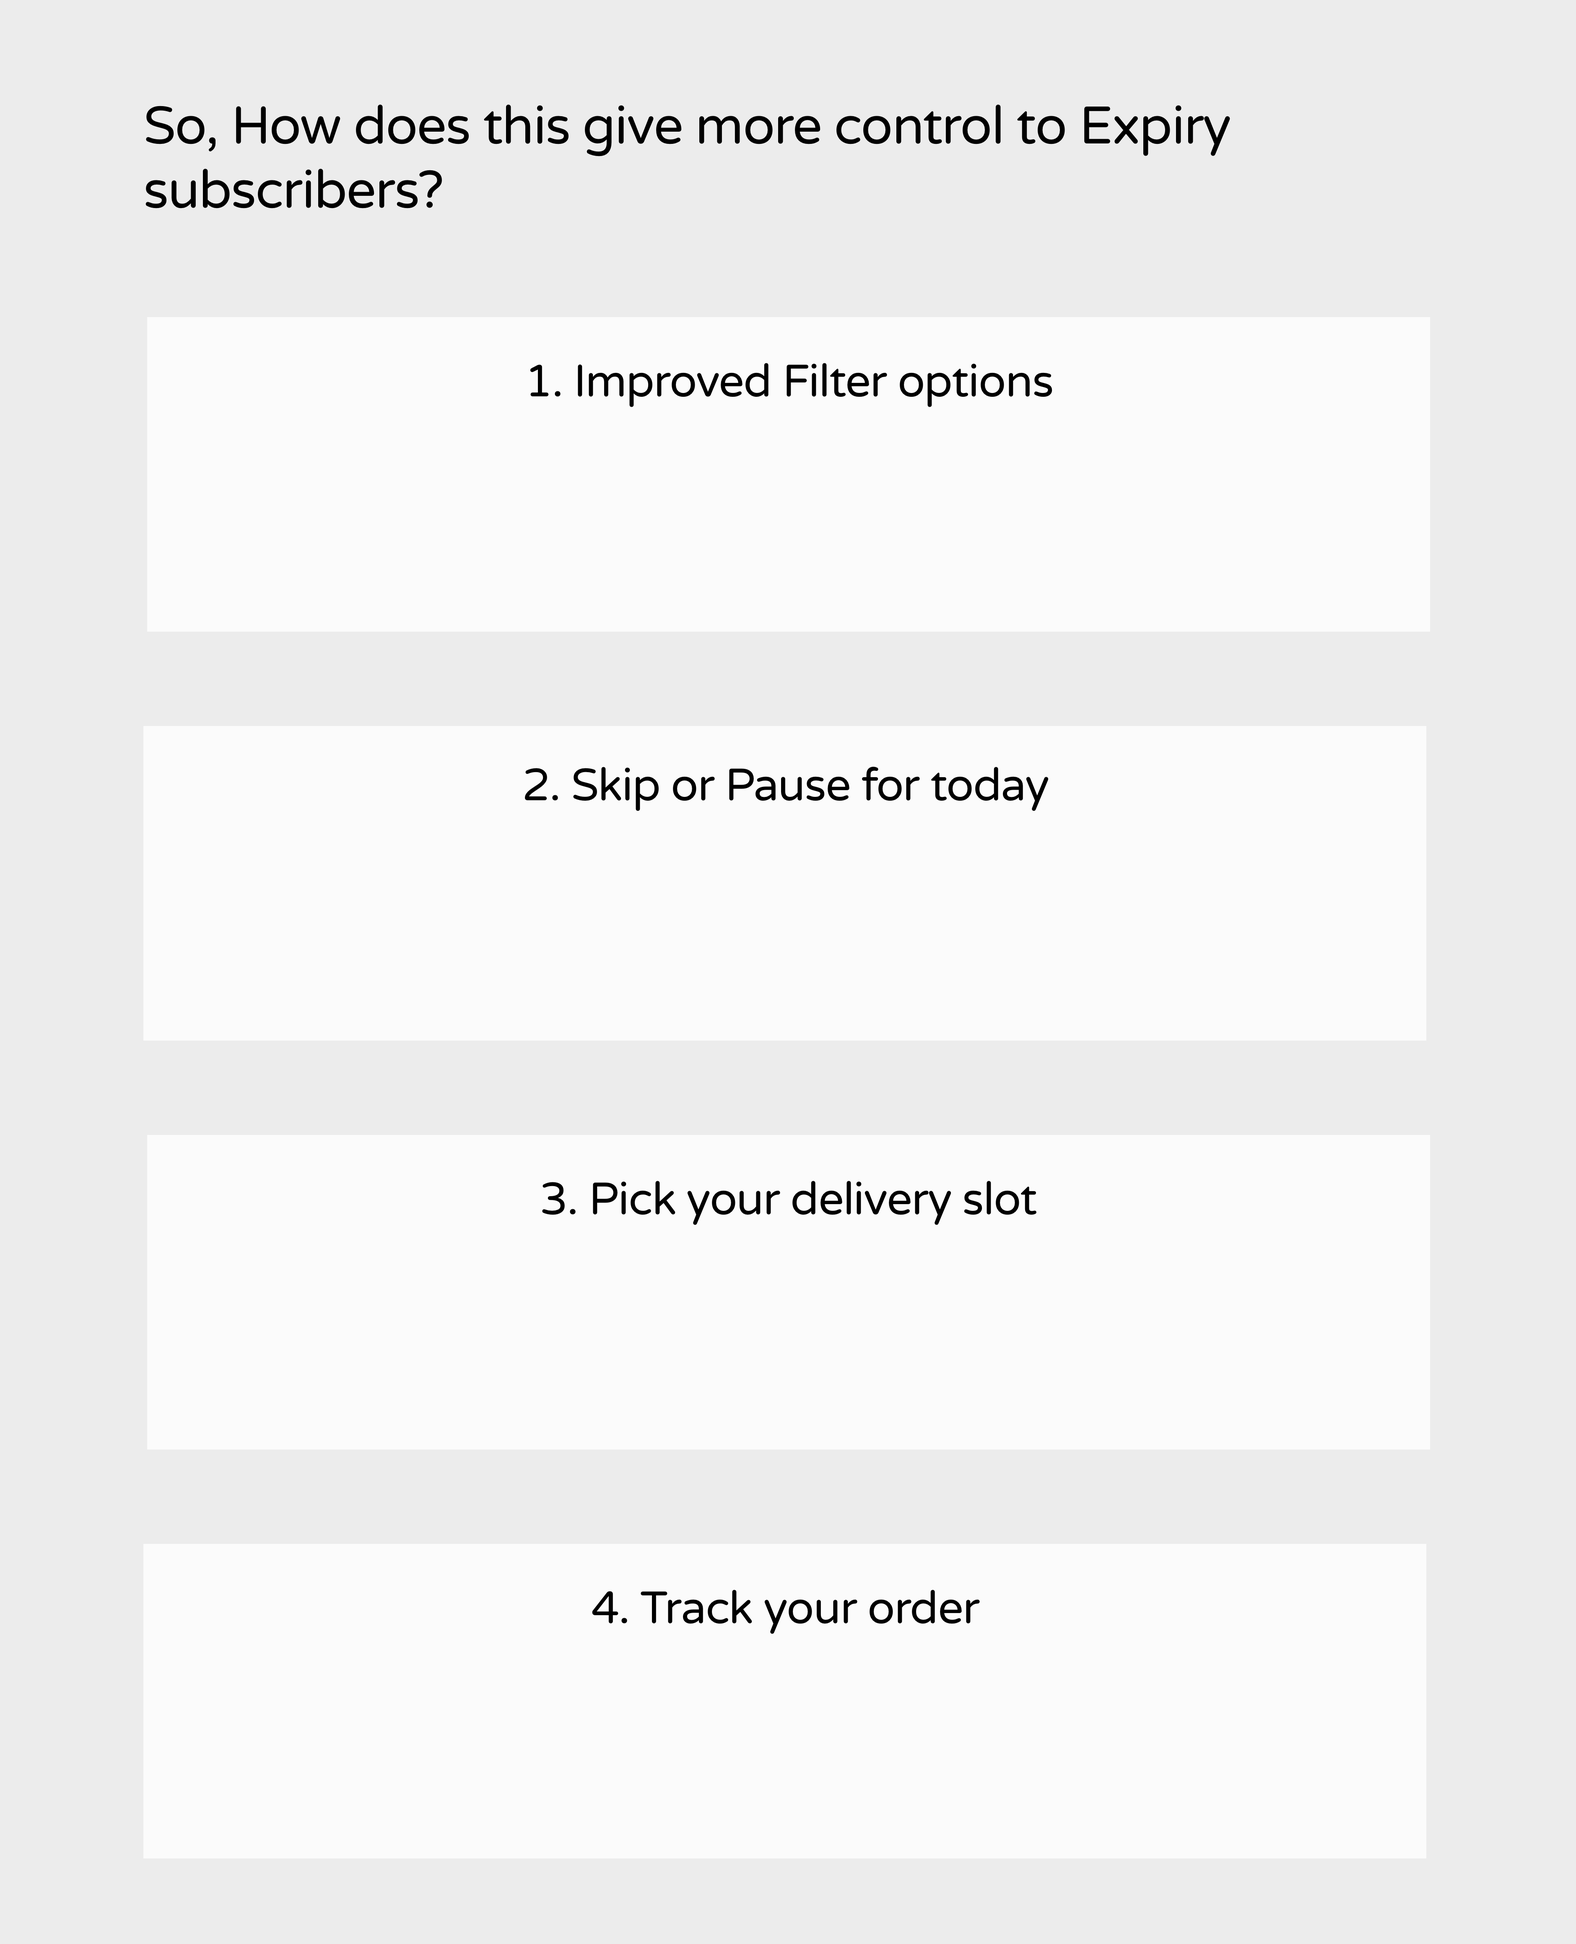
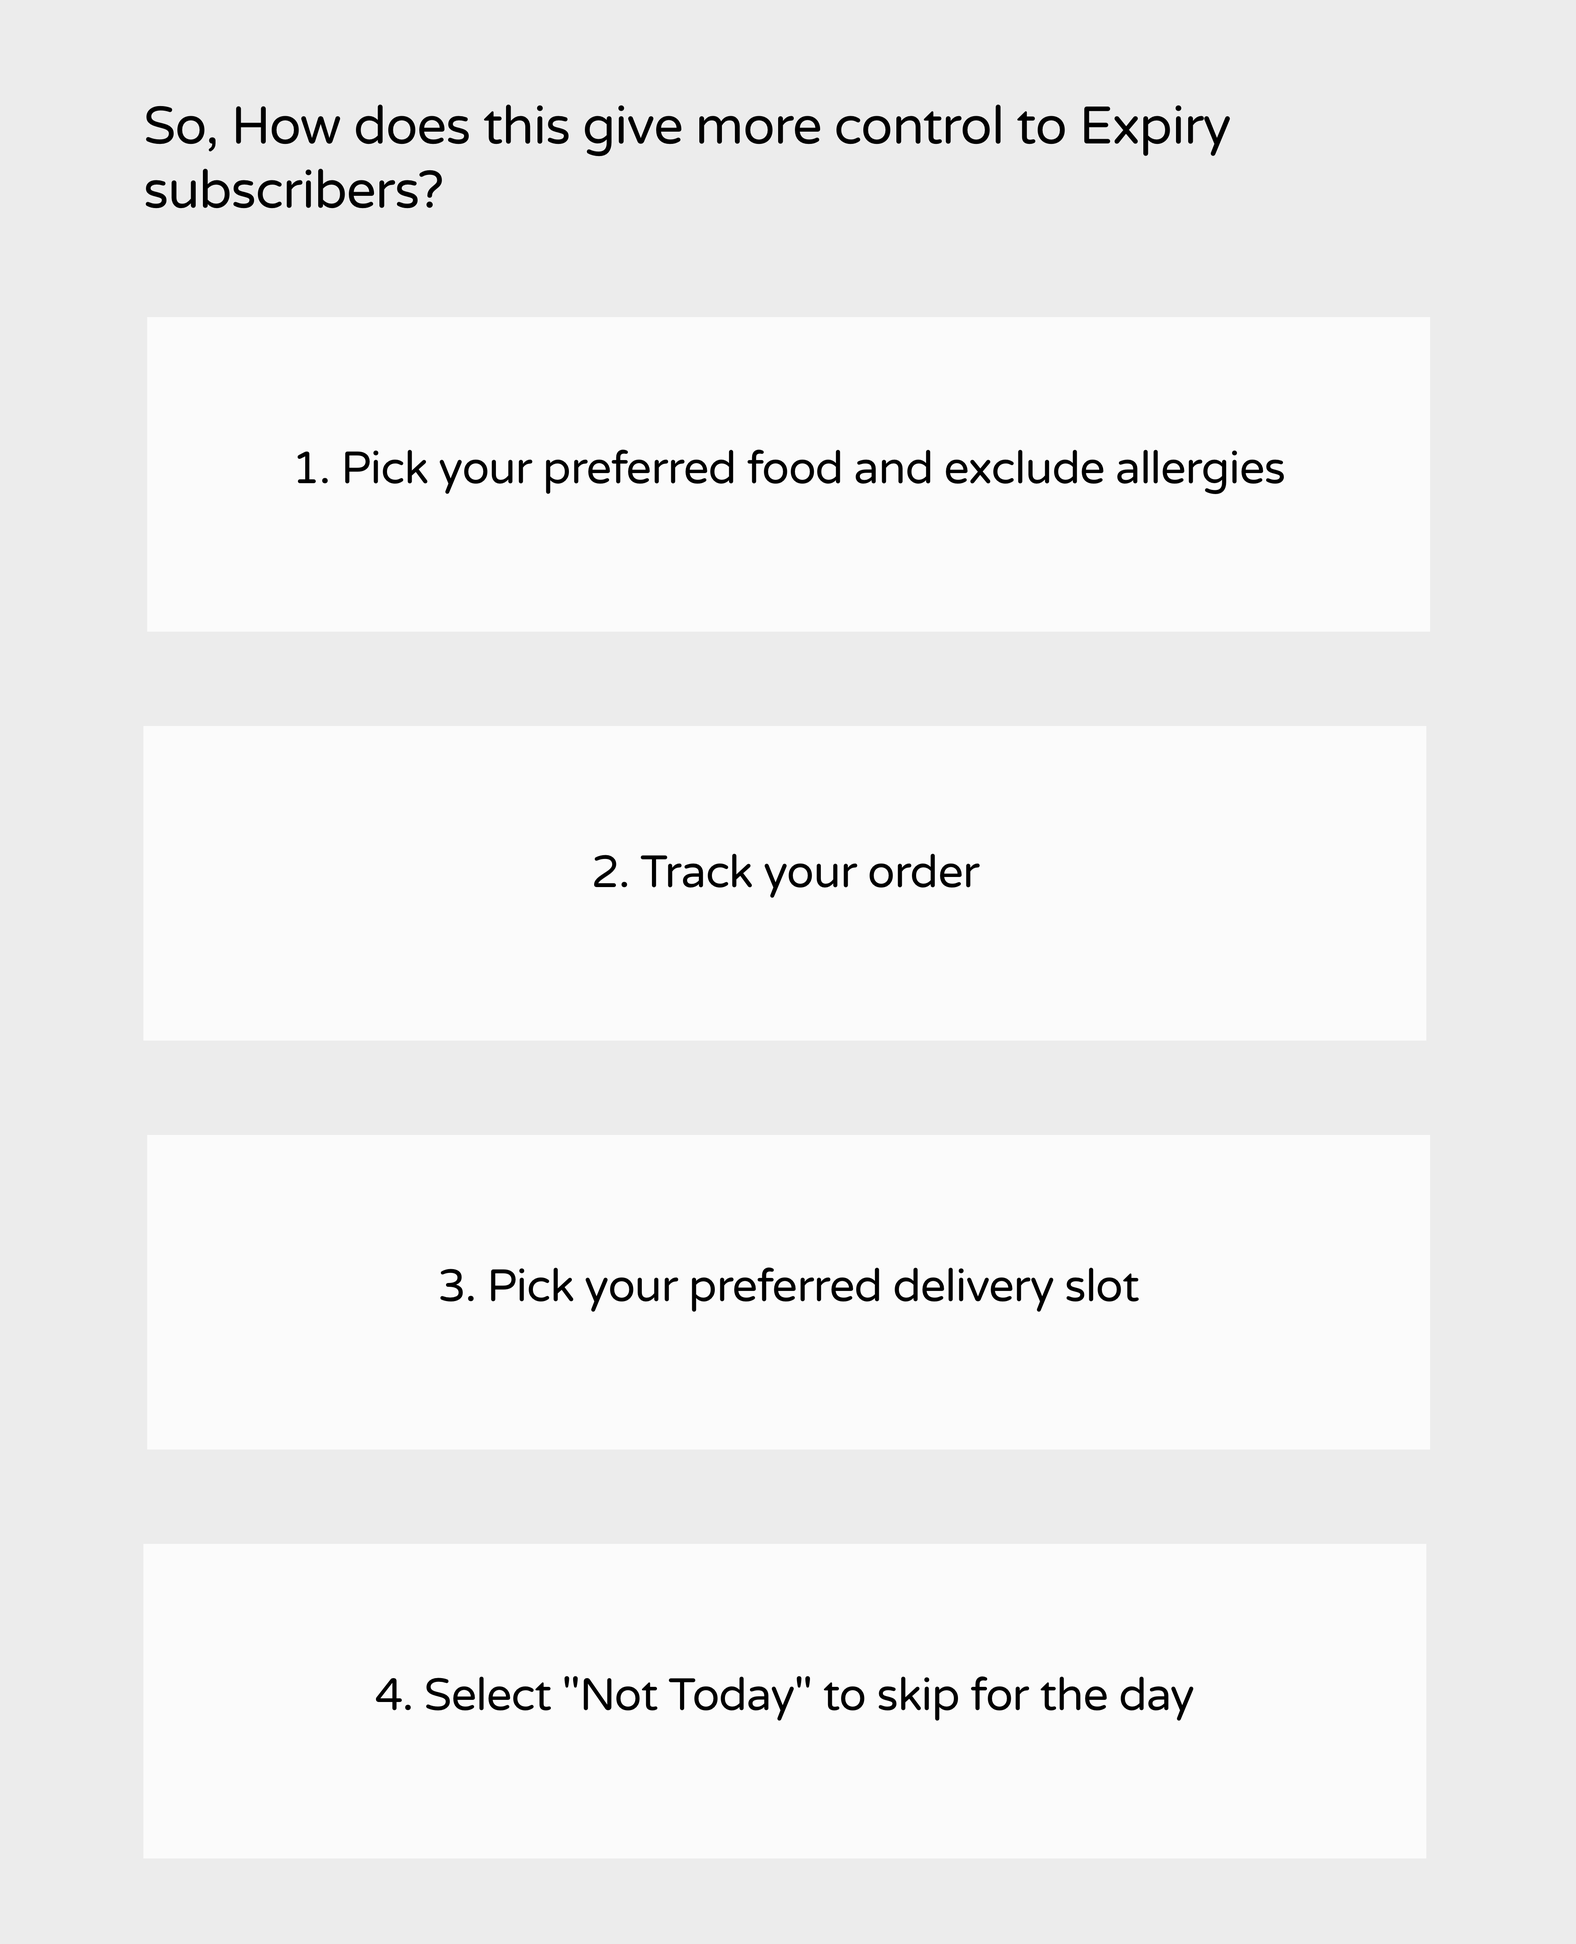
aug 15th

diff --git a/expiry.html b/expiry.html
@@ -180,123 +180,128 @@
 
                     </div>
 
+                  
                     
+                    <div class="col-lg-12 col-md-12 col-sm-12 col-xs-12">
+                            
+                            
 
-                    <div class="col-lg-12 col-md-12 col-sm-10 col-xs-12">
-                            <div class="blog-text text-left">
-                                <h3 class="titled">The Process</h3>
-                                <p>
-                                    
-                                    <br/>
-                                    <img class="blog-image" id="no-shadows" src="assets/images/process.png">
-                                    
-                                    <br/>
-                                    
-    
-                                </p>
-                                
-                               
-                                
-                                <hr class="hr">
-    
-                                
-                            </div>
-    
-    
-                        </div>
-
-                    
-                    <div class="col-lg-12 col-md-8 col-sm-8 col-xs-12">
                         <div class="blog-text text-left" >
+                                <h3 class="titled">Existing design</h3>
+                                <img class="blog-image" id="no-shadows" src="assets/images/current-design.png">
+                                <br/>
+                                <hr class="hr">
+                                <h3 class="titled">Timeline of events</h3>
+                                <img class="blog-image" id="no-shadows" src="assets/images/timeline-expiry.png">
+                                <br/>
+                                <hr class="hr">
+
+                                <h3 class="titled">Existing problems</h3>
+                                <p> So, Customers feel they don't have enough control over their orders.
+                                    This could mean:<br/>
+                                    <h4>1. Customers may not always get the food they like</h4>
+                                    <p>Existing design doesn't let users pick their food. It only asks for preferences like Vegan or Vegetarian. Though this maintains the idea of "Mystery" behind food delivery, This could result in upsetting customers during delivery. <br/>Eg. <i>Customer expects a "Vegan Salad" but gets "Vegan Sushi" instead.</i></p>
+                                    <h4>2. Exclude allergies</h4>
+                                    <p>Existing design doesn't ask for any specific food alergies before placing an order. This could result in delivery of food that the customer may be allergic to. <br/>Eg. <i>A customer who is lactose intolerant gets a cheese pizza.</i></p>
+                                    <h4>3. No tracking options available</h4>
+                                    <p>Existing design doesn't let users track their food. This could result in food left at the user's doorstep. If not notified, it could remain there for hours.</p>
+                                    <h4>4. "Change of plans" for the customer</h4>
+                                    <p>Due to unforseen reasons, the customer needs to change his plans for the evening. The current design doesn't let subscribers "pause" or "skip" delivery for that day. This could result in more food wastage and loss for the customer. <br/>Eg:<i>The customer gets invited to a birthday party for the evening and he/she needs to cancel delivery for that day</i>
+                                    </p>
+                                <br/>
+                                <hr class="hr">
 
                                 <h3 class="titled">Persona</h3>
-                            <img class="blog-image" id="no-shadows" src="assets/images/persona1.png">
+                            <img class="blog-image storyboard" id="no-shadows" src="assets/images/persona1.png">
 
                             <br/>
+                            <hr class="hr">
 
-                            <h3 class="titled">User Problems</h3>
-                            <img class="blog-image" id="no-shadows" src="assets/images/user-problem-1.png">
-
-                            <br/>
-
-                            <img class="blog-image" id="no-shadows" src="assets/images/user-problem-2.png">
-
-                            <br/>
-
-                                <h3 class="titled">Problem Summary</h3>
+                            <h3 class="titled">Scenarios</h3>
                             
-                                <h4>1. Too many food options to choose from</h4>
-                                <p>
-                                    
-                                    
-        
-                                </p>
-    
-                                <h4>2. For sudden plan changes, Users don't have the flexibility to make changes to their monthly schedule</h4>
-                                <p> 
-        
-                                </p>
-    
-                                <h4>3. Food gets dropped at the doorstep</h4>
-                                <p>
-                                    
-                                </p>
-    
-                                <h4>4. Inability to track your order</h4>
-                                <p>
-                                    
-                                </p>
+                            <div class="container">
+                                    <div class="row">
+                                        
+                        
+                                        <div class="col-lg-6 col-md-6 col-sm-12 col-xs-12">
+                                        
+                                            <figure>
+                                                <img id="prof" src="assets/images/user-problem-1.png " alt="">
+                                            </figure>
+                                            
+                                        </div>
+
+                                        <div class="col-lg-6 col-md-6 col-sm-12 col-xs-12">
+                                        
+                                                <figure>
+                                                    <img id="prof" src="assets/images/user-problem-2.png " alt="">
+                                                </figure>
+                                                
+                                            </div>
+
+                                            </div>
+                                        </div>
+                                    </div>
+
+
+                                    <hr class="hr">
     
                                 
 
-                                <h3 class="titled">Possible Solutions to User Problems</h3>
-
-                                <h4>1. Show filter options to narrow down food options</h4>
-                                <p>
-                                    
-                                </p>
-    
-                                <h4>2. Select "Not Today" to skip for the day</h4>
+                                <h3 class="titled">Primary solutions to Critical User Problems</h3>
+                                <a id="prob">Problem: 1. Customers may not always get the food they like</a><br/>
+                                <sol>Solution: Show food options and allow users to select from that</sol>
+                                <p> 
+        
+                                    </p>
+                                <br/>
+                                <a id="prob">Problem: 2. Exclude allergies</a><br/>
+                                <sol>Solution: Include a text box to exclude allergies</sol>
                                 <p> 
         
                                 </p>
-    
-                                <h4>3. Pick your delivery slot</h4>
+                                <br/>
+                                <a id="prob">Problem: 3. No tracking options available</a><br/>
+                                <sol>Solution: Pick your preferred delivery slot</sol>
                                 <p>
                                     
                                 </p>
-    
-                                <h4>4. Track your order</h4>
+                                <br/>
+                                <a id="prob">Problem: 4. "Change of plans" for the customer</a><br/>
+                                <sol>Solution: Select "Not Today" to skip for the day</sol>
                                 <p>
                                     
                                 </p>
                             
 
                             <br/>
+                            <hr class="hr">
+                                <h3 class="titled">Ending the story</h3>
+                                <div class="row">
+                                        
+                        
+                                        <div class="col-lg-6 col-md-6 col-sm-12 col-xs-12">
+                                        
+                                            <figure>
+                                                <img id="prof" src="assets/images/expiry-solution-1.png " alt="">
+                                            </figure>
+                                            
+                                        </div>
 
-                                <h3 class="titled">Solution to User Problems</h3>
-                            <img class="blog-image" id="no-shadows" src="assets/images/expiry-solution-1.png">
+                                        <div class="col-lg-6 col-md-6 col-sm-12 col-xs-12">
+                                        
+                                                <figure>
+                                                    <img id="prof" src="assets/images/expiry-solution-2.png " alt="">
+                                                </figure>
+                                                
+                                            </div>
 
-                            <br/>
-
-                            <img class="blog-image" id="no-shadows" src="assets/images/expiry-solution-2.png">
-
-                            <br/>
-
-
-
-                            <h3 class="titled">UX Flowchart</h3>
-                            <img class="blog-image" src="assets/images/uxflowchart.png">
-    
-                            <br/>
+                                            </div>
+                                        </div>
+                                    </div>
+                                    <hr class="hr">
+                                    <h3 class="titled">User Flow</h3>
                             
-                            
-
-                            <h3 class="titled">User Flow</h3>
-                            <img class="blog-image" id="no-shadows" src="assets/images/user-flow-1.png">
-                            <p></p>
-                            <br/>
-
                             <img class="blog-image" id="no-shadows" src="assets/images/user-flow-2.png">
                             <p></p>
                             <br/>
@@ -304,16 +309,12 @@
                             <img class="blog-image" id="no-shadows" src="assets/images/user-flow-3.png">
                             <p></p>
                             <br/>
-                            
-                            
 
-                            
-                            <h3 class="titled">Research & Brainstorming</h3>
-                            <p>
+                            <h3 class="titled">UX Flowchart</h3>
+                            <img class="blog-image" id="no-shadows" src="assets/images/uxflowchart.png">
     
-                                As a team, we thought of multiple solutions to make the process and business easier. I was a part of building some of the solutions that were contributing to run the business. I was involved in helping to build the products that helped in digitizing and easing problems that existed in the company by collaborating with the product managers, design manager and researchers to gain a knowledge of the user and with a brand designer to design the product that enhanced the experience for the users.
-    
-                            </p>
+                            <br/>
+                            <hr class="hr">
 
                             <h3 class="titled">Visual Design</h3>
                             <p>
@@ -337,15 +338,7 @@
     
                                 </p>
 
-                            <h3 class="titled">Now, What's Next?</h3>
-                            <p>
-    
-                                This version of Pobyt is now live on the App Store and Google Play store. We've been receiving positive feedback so far. Design is an iterative process and will continue to evolve over time.
-
-                                Below is a screenshot of how things have changed in 2 years. Working for this product has taught me so much discipline.
-    
-                            </p>
-    
+                            
                             
     
                             

diff --git a/pobyt.html b/pobyt.html
@@ -89,7 +89,7 @@
                     <!-- Logo -->
 
                     <a class="navbar-brand logo" id="logo1" href="">
-            <img src="assets/images/logo1.svg"  alt="" title="">
+            <img src="assets/images/logo-pobyt.svg"  alt="" title="">
           </a>
                 </div>
 
@@ -322,25 +322,7 @@
     
                             </p>
     
-                            <!-- quote text-->
-    
-                            <div class="quote-blog">
-                                <blockquote>
-    
-                                    <i class="icon_quotations"></i>
-                                    <p>
-                                        Aliquam diam quis dolor aliquam lobortis. Aenean in tortor et eros faucibus porta sit amet sed ipsum Nullam hendrerit dui id diam suscipit.
-                                    </p>
-                                </blockquote>
-    
-                            </div>
-    
-                            <p>
-    
-                                At vero eos et accusamus et iusto odio dignissimos ducimus qui blanditiis praesentium voluptatum deleniti atque corrupti quos dolores et quas molestias excepturi sint occaecati cupiditate non provident, similique sunt in culpa qui officia deserunt mollitia animi, id est laborum et dolorum fuga. Et harum quidem rerum facilis est et expedita distinctio.
-                            </p>
-    
-                            
+                           
                             <hr class="hr">
     
                             
@@ -400,7 +382,7 @@
                                                 <div class="col-lg-8 col-md-7 col-sm-6 col-xs-12 ">
 
                                                     <div class="logo-footer ">
-                                                        <img src="assets/images/logo1.svg " alt="">
+                                                        <img src="assets/images/logo-pobyt.svg " alt="">
 
                                                     </div>
                                                     <div class="text-footer ">

diff --git a/assets/css/style.css b/assets/css/style.css
@@ -149,6 +149,26 @@ a {
     color:#637282 !important;
 }
 
+h4{
+    margin-top: 20px;
+    margin-bottom: 0px !important;
+}
+
+h5{
+    margin-top: 0px !important;
+    margin-bottom: 0px !important;
+}
+
+#prob{
+    font-size: 18px;
+
+}
+
+sol{
+    margin-top: 100px;
+    font-size: 24px;
+}
+
 a:hover {
     color: #1968e0;
     text-decoration: none;
@@ -212,6 +232,10 @@ hr.hr {
     position: relative;
     float: right;
     width: 52%;
+}
+
+.storyboard{
+    padding: 0 200px;
 }
 
 .bg-color-1 {
